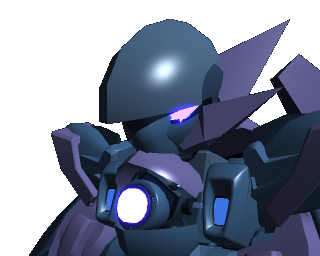
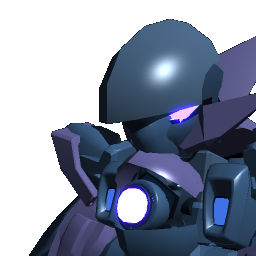
アビリティ発動シーンもcutInSpriteを使うようにした

diff --git a/public/javascripts/animation/abilityAnime.js b/public/javascripts/animation/abilityAnime.js
@@ -17,7 +17,7 @@ function abilityAnime(spec,my){
             battleScene.armdozerAbilityBack.setSpeed(speed);
 
             battleScene.armdozerAbilityCutInArray[playerId].visible = true;
-            cutInAnime();
+            battleScene.armdozerAbilityCutInArray[playerId].play();
 
             battleScene.executeAbilitySprite.visible = true;
         }).delay(120).then(function(){
@@ -27,16 +27,6 @@ function abilityAnime(spec,my){
             battleScene.executeAbilitySprite.visible = false;
             fn();
         });
-
-        function cutInAnime(){
-            var targetX = dir>0 ? 40 : -40;
-            battleScene.armdozerAbilityCutInArray[playerId].y = 80;
-            battleScene.armdozerAbilityCutInArray[playerId].x = dir>0 ? 200 : -200;
-            battleScene.armdozerAbilityCutInArray[playerId].tl.moveTo(targetX,80,10);
-            battleScene.armdozerAbilityCutInArray[playerId].tl.delay(10).then(function(){
-                core.assets[core.SOUND_WAKE_UP].play();
-            });
-        }
     }
 
     return that;

diff --git a/public/javascripts/scene/battleSceneBase.js b/public/javascripts/scene/battleSceneBase.js
@@ -70,8 +70,11 @@ function battleSceneBase(spec,my){
         for(var uid in that.statusArray){
             //アームドーザ発動時のアップ画像
             if(that.statusArray[uid].ability.type!=='none'){
-                that.armdozerAbilityCutInArray[uid] = new Sprite(320,256);
-                that.armdozerAbilityCutInArray[uid].image = core.assets[core.PICT_PREFIX+'wakeUp'+that.statusArray[uid].pictName];
+                      that.armdozerAbilityCutInArray[uid] = cutInSprite({
+                    width : 256,
+                    height : 256,
+                    image : core.assets[core.PICT_PREFIX+'wakeUp'+that.statusArray[uid].pictName]
+                });
                 that.armdozerAbilityCutInArray[uid].x = 0;
                 that.armdozerAbilityCutInArray[uid].y = 80;
                 that.armdozerAbilityCutInArray[uid].scaleX = uid===that.userId ? 1 : -1;
